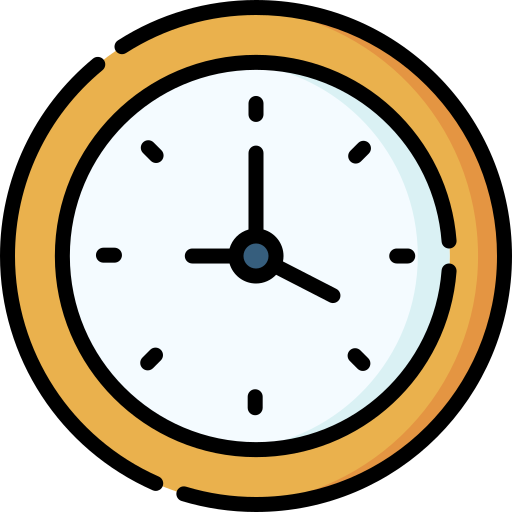
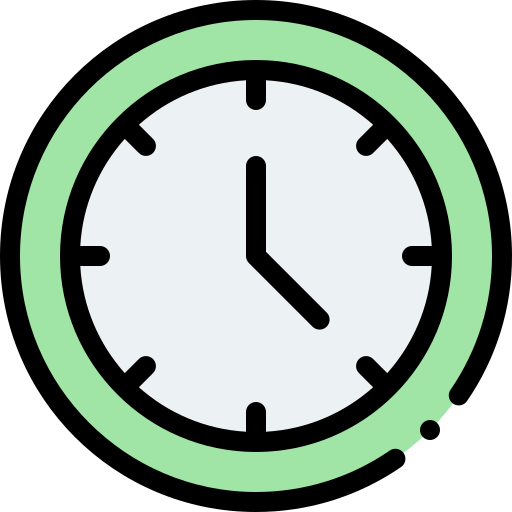
relogio adicionado

diff --git a/Animais.py b/Animais.py
@@ -8,7 +8,7 @@ pygame.init()
 
 SCREEN_SIZE=(800,500)
 screen = pygame.display.set_mode(SCREEN_SIZE)
-pygame.display.set_caption("Troca-cor")
+pygame.display.set_caption("BICHOS")
 
 #cores em RGB
 BRANCO_COR= (255,255,255)
@@ -37,6 +37,7 @@ caminho_icones = "icons//"
 #fontes
 arial_font = pygame.font.SysFont('arial',40)
 quickens_font = pygame.font.Font(caminho_fontes+"QUICKENS.ttf",55)
+yogurt_mango_font_menor = pygame.font.Font(caminho_fontes+"Yogurt Mango.ttf", 35)
 yogurt_mango_font = pygame.font.Font(caminho_fontes+"Yogurt Mango.ttf", 40)
 yogurt_mango_font_maior = pygame.font.Font(caminho_fontes+"Yogurt Mango.ttf", 50)
 
@@ -66,6 +67,11 @@ figura_sapo = "sapo_corpo_contorno.png"
 #icones
 icone_vida = "icone_coracao.png"
 icone_relogio = "icone_relogio.png"
+
+#temporizador
+CLOCKTICK = pygame.USEREVENT+1
+pygame.time.set_timer(CLOCKTICK, 1000) 
+temporizador = 60
 
 
 class Tela():
@@ -124,6 +130,9 @@ class Tela():
         self.icone_vida_tela = pygame.image.load(caminho_icones+icone_vida).convert_alpha()
         self.icone_vida_tela = pygame.transform.scale(self.icone_vida_tela, (45,45))
         
+        self.icone_relogio_tela = pygame.image.load(caminho_icones+icone_relogio).convert_alpha()
+        self.icone_relogio_tela = pygame.transform.scale(self.icone_relogio_tela, (40,40))
+        
         
     
     def inicializa_dicionario(self):
@@ -138,9 +147,12 @@ class Tela():
         pos_y = 40
         i = 0
         
+        Tela.escrevePontosNaTela(self)
+        Tela.escreveTempoNaTela(self)
+        screen.blit(self.icone_relogio_tela, (pos_x+520,pos_y))
         while (i < self.vidas_jogador):
             screen.blit(self.icone_vida_tela, (pos_x,pos_y))
-            pos_x += 60
+            pos_x += 50
             i+=1
        
             
@@ -270,6 +282,10 @@ class Tela():
         textoPontos = yogurt_mango_font.render(str(self.pontos), True, PRETO_COR)   
         screen.blit(textoPontos, (710,30))   
         
+    def escreveTempoNaTela(self):
+        textoTempo = yogurt_mango_font_menor.render(str(temporizador), True, AZUL_ESCURO_COR)
+        screen.blit(textoTempo, (620,35))    
+        
         
     def telaDeInicio(self):
         screen.fill(PRETO_COR)
@@ -306,7 +322,6 @@ while running:
     if tela_obj.comeco_jogo:
         
         tela_obj.monta_tela()
-        tela_obj.escrevePontosNaTela()
         tela_obj.sorteiaAnimal()
         tela_obj.desenha_animais()
         tela_obj.escreveAnimalNaTela()   
@@ -323,6 +338,9 @@ while running:
         
         if event.type == pygame.QUIT:
             running = False
+            
+        if event.type == CLOCKTICK:
+            temporizador-=1    
     # Flip the display
     pygame.display.flip()
     fpsClock.tick(FPS)
